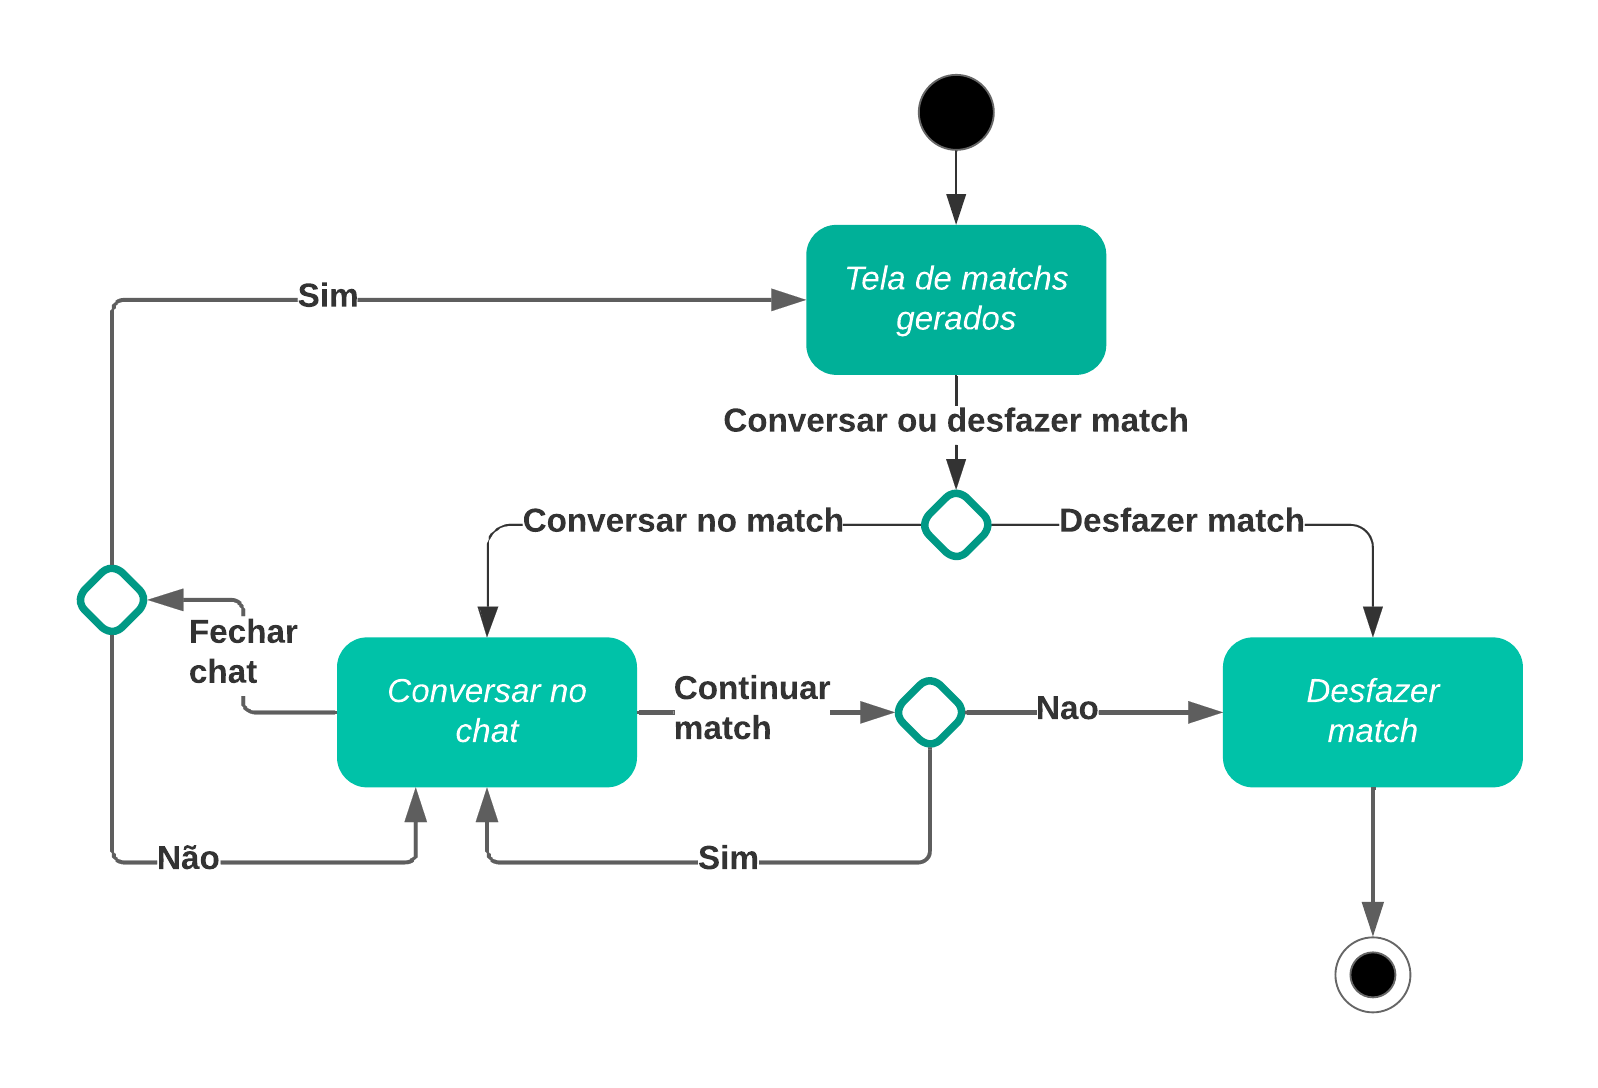
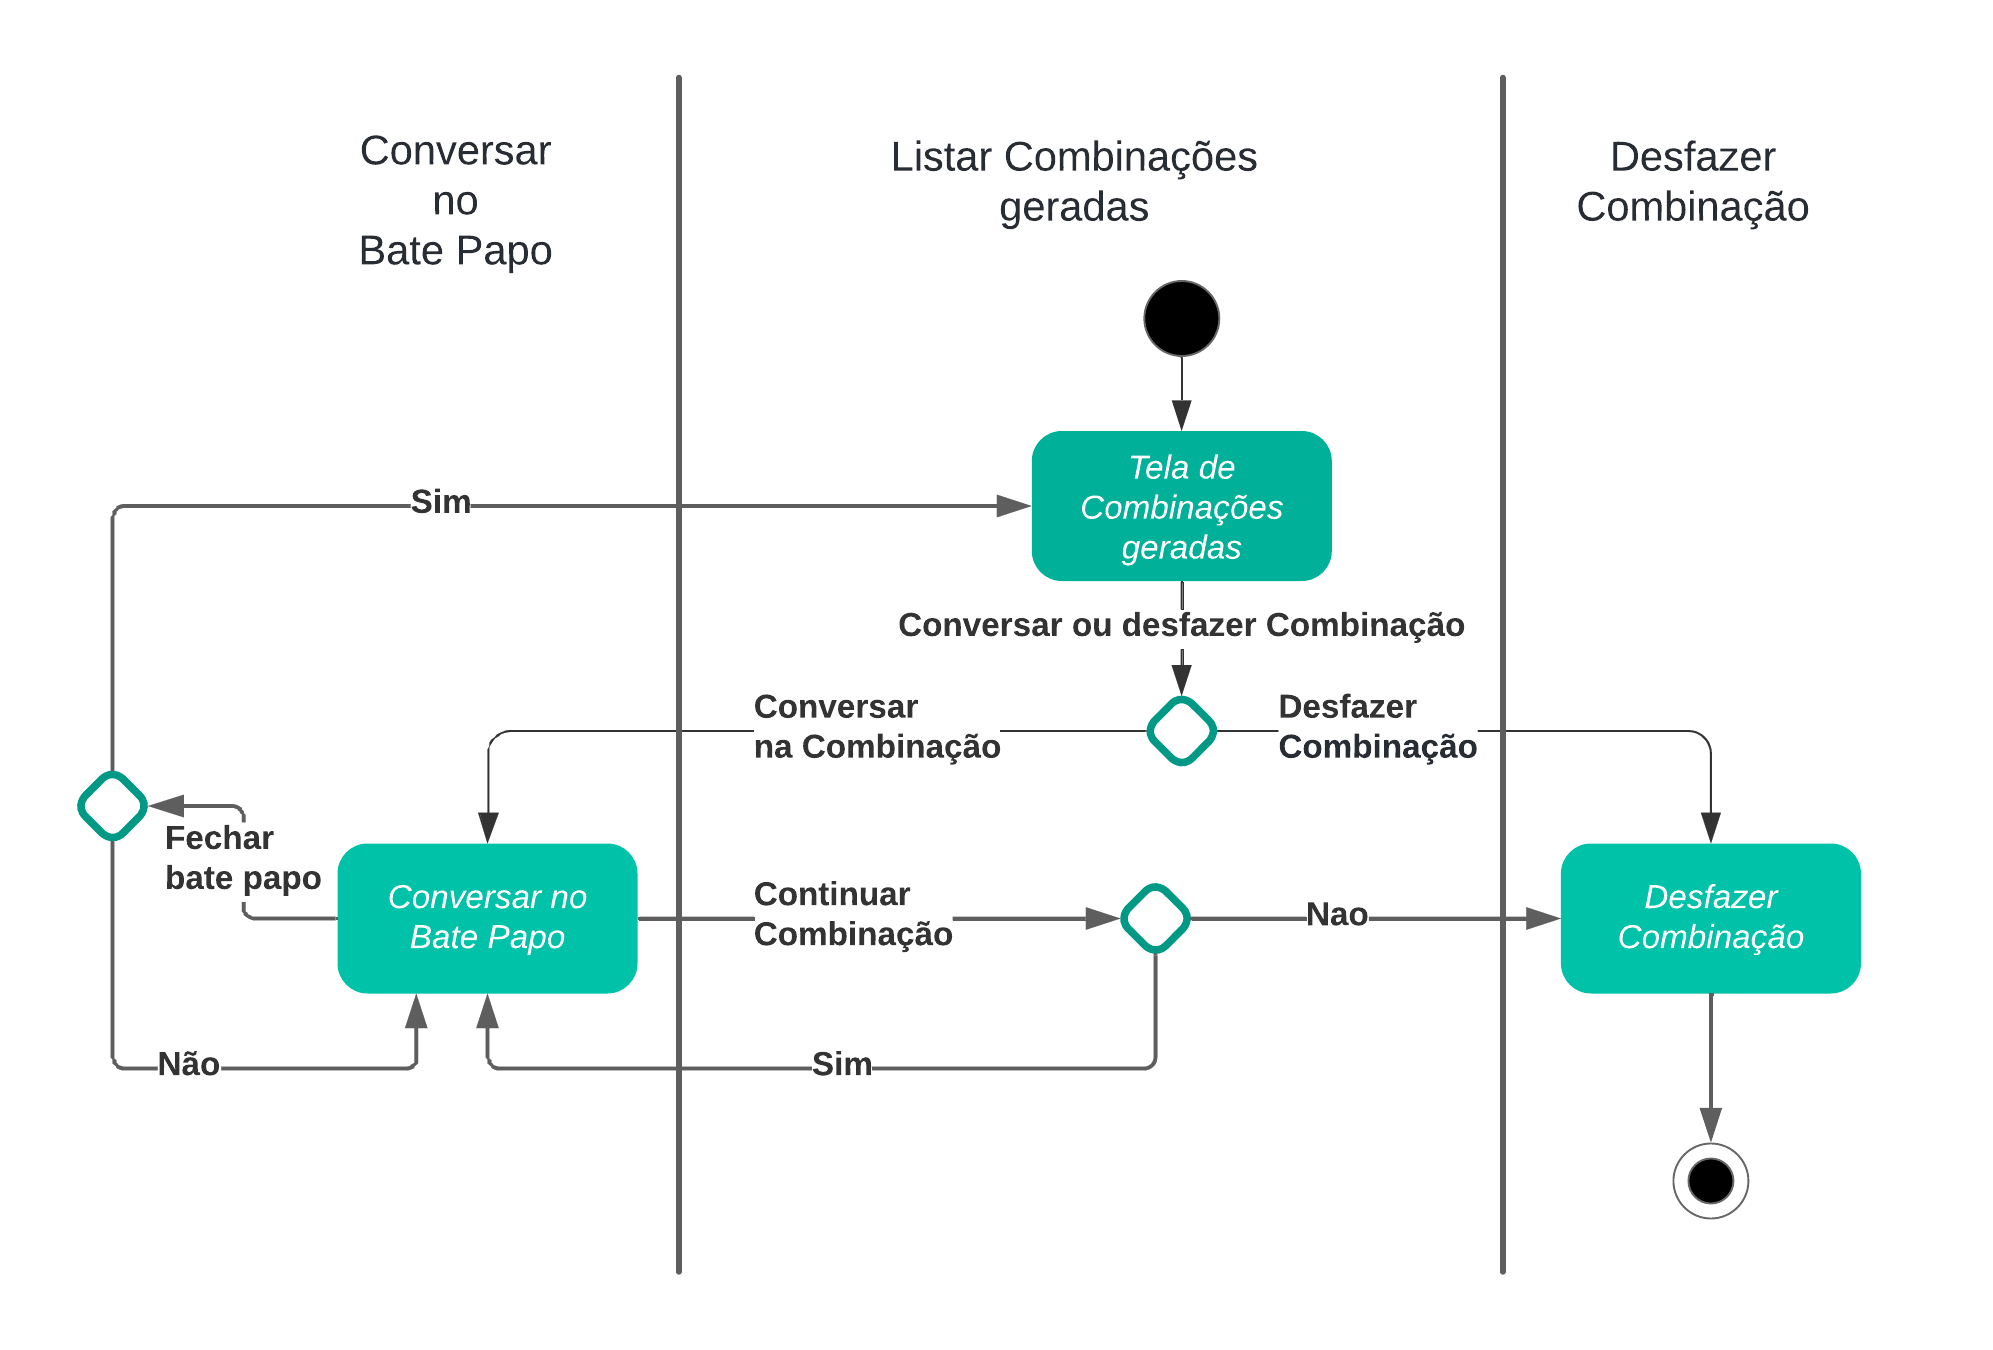
#44 fix: traduzido os termos, alterado as notacoes e adicionado raias e fases

diff --git a/docs/Modelagem/2.1.2.2.DiagramaAtividades.md b/docs/Modelagem/2.1.2.2.DiagramaAtividades.md
@@ -9,7 +9,7 @@ O diagrama de atividades é um diagrama que representa o fluxo de trabalho de um
 Tendo como base oque foi ministrado em aula sobre o Diagrama de Atividades, e a reunião dos alunos Augusto Duarte e Cleber Brant que foi feita no Discord, para discutir mais sobre o assunto, inicialmente pesquisamos sobre como era desenvolvido o diagrama de Atividades, e com base no nosso BPMN, conseguimos aplicar nossas funcionalidades no diagrama, onde conseguimos utilizar modelos bem claros para o entendimento do sistema, além disso, utilizamos alguns videos e livros externos para retirada de dúvidas.
 
 ## 3. Diagrama de Atividades
-Em nossa análise, decidimos que era necessário o desenvolvimento de um diagrama para cada funcionalidade do sistema, utilizando nosso [BPMN](https://unbarqdsw2024-1.github.io/2024.1_G8_UnBreja/#/Base/1.4.5.bpmn) como base, e que nos resultou os seguintes diagramas: Diagrama de Produto, Diagrama de Match, Diagrama de chat e Diagrama de Notícias e eventos.
+Em nossa análise, decidimos que era necessário o desenvolvimento de um diagrama para cada funcionalidade do sistema, utilizando nosso [BPMN](https://unbarqdsw2024-1.github.io/2024.1_G8_UnBreja/#/Base/1.4.5.bpmn) como base, e que nos resultou os seguintes diagramas: Diagrama de Produto, Diagrama de Combinação, Diagrama de Bate Papo e Diagrama de Notícias e eventos.
 
 ### 3.1. Diagrama Produto
 
@@ -25,13 +25,13 @@ A seguir, na figura 1, está representada o Diagrama de Produto: cadastro, login
 
 </center>
 
-### 3.2. Diagrama Match
+### 3.2. Diagrama Combinação
 
-A seguir, na figura 2, está representada o Diagrama de Match.
+A seguir, na figura 2, está representada o Diagrama de Combinação.
 
 <center>
 
-**Figura 2** - Diagrama de Atividade - Match 
+**Figura 2** - Diagrama de Atividade - Combinação 
 
 ![](../assets/diagrama-atividades/diagrama-match.png)
 
@@ -39,13 +39,13 @@ A seguir, na figura 2, está representada o Diagrama de Match.
 
 </center>
 
-### 3.3. Diagrama Chat
+### 3.3. Diagrama Bate Papo
 
-A seguir, na figura 3, está representada o Diagrama de Chat.
+A seguir, na figura 3, está representada o Diagrama de Bate Papo.
 
 <center>
 
-**Figura 3** - Diagrama de Atividade - Chat 
+**Figura 3** - Diagrama de Atividade - Bate Papo 
 
 ![](../assets/diagrama-atividades/diagrama-chat.png)
 
@@ -88,3 +88,4 @@ O Diagrama de Atividades é muito parecido com BPMN e Fluxograma, alguns videos 
 | 08/07/2024 |  1.2   | Adicionando metodologia e diagramas de chat e noticias/eventos | [Cleber Brant](https://github.com/Cleberbrant)  | [Augusto Duarte](https://github.com/Augcamp) |
 | 08/07/2024 |  1.3   | Adicionado Conclusão e pequenos detalhes que faltavam | [Cleber Brant](https://github.com/Cleberbrant)  | [Augusto Duarte](https://github.com/Augcamp) |
 | 08/07/2024 |  1.4   | Complementando metodologia | [Cleber Brant](https://github.com/Cleberbrant)  | [Pablo Guilherme](https://github.com/PabloGJBS) |
+| 24/07/2024 |  1.5   | Tradução de termos da modelagem, mudança de alguns substantivos para verbos nos diagramas, adicionado raias e fases | [Cleber Brant](https://github.com/Cleberbrant)  | [Augusto Duarte](https://github.com/Augcamp) |
